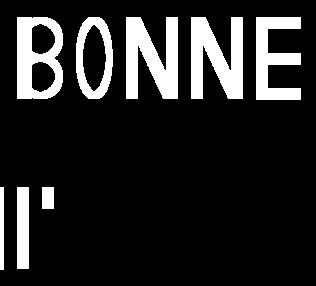
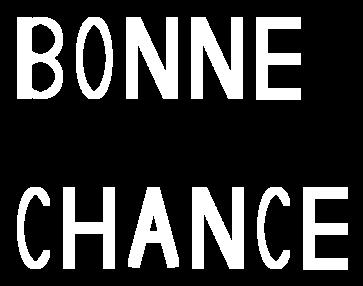
LetterFactory terminé
fin du display de "BONNE CHANCE"

diff --git a/src/main/java/Letter/LetterFactory.java b/src/main/java/Letter/LetterFactory.java
@@ -17,12 +17,52 @@ public final class LetterFactory {
      * @return BaseShape containing the letter A
      */
     public static BaseShape create_A()  {
-        Square square = new Square(5.0);
-        Rectangle rectangle = new Rectangle(5.0, 5.0);
-        rectangle.remove(square);
+
+      /*  double rectWidth = 5.0;
+        double rectHeight = halfMaxHeight;
+        double rotationAngleMilieu = Math.toRadians(-90);
+        double rotationAngle = Math.toRadians(20);
+        double translationMilieuX = rectWidth*4;
+        double translationDroiteX = rectWidth*8;
+
+        Rectangle rectangleGauche = new Rectangle(rectWidth, rectHeight);
+        Rectangle rectangleMilieu = new Rectangle(rectWidth, rectHeight/4);
+        Rectangle rectangleDroite = new Rectangle(rectWidth, rectHeight);
+
+        rectangleMilieu.replaceAll(rectangleMilieu.rotate(rectangleMilieu.getCoords(), rotationAngleMilieu));
+        rectangleMilieu.replaceAll(rectangleMilieu.translate(rectangleMilieu.getCoords(), new Point2d(translationMilieuX, 0.0)));
+        rectangleDroite.replaceAll(rectangleDroite.translate(rectangleDroite.getCoords(), new Point2d(translationDroiteX, 0.0)));
+
+        BaseShape H = new BaseShape();
+        H.add(rectangleGauche);
+        H.add(rectangleMilieu);
+        H.add(rectangleDroite);
+
+        return H; */
+        double rectWidth = 5.0;
+        double rectHeight = halfMaxHeight;
+        double rotationAngleMilieu = Math.toRadians(-90);
+        double rotationAngle = Math.toRadians(15);
+        double translationMilieuX = rectWidth*2;
+        double translationMilieuY = 10;
+        double translationDroiteX = rectWidth*4;
+
+        Rectangle rectangleGauche = new Rectangle(rectWidth, rectHeight);
+        Rectangle rectangleMilieu = new Rectangle(rectWidth, rectHeight/4);
+        Rectangle rectangleDroite = new Rectangle(rectWidth, rectHeight);
+
+        rectangleGauche.replaceAll(rectangleGauche.rotate(rectangleGauche.getCoords(), rotationAngle));
+        rectangleMilieu.replaceAll(rectangleMilieu.rotate(rectangleMilieu.getCoords(), rotationAngleMilieu));
+        rectangleMilieu.replaceAll(rectangleMilieu.translate(rectangleMilieu.getCoords(), new Point2d(translationMilieuX, translationMilieuY)));
+        rectangleDroite.replaceAll(rectangleDroite.rotate(rectangleDroite.getCoords(), -rotationAngle));
+        rectangleDroite.replaceAll(rectangleDroite.translate(rectangleDroite.getCoords(), new Point2d(translationDroiteX, 0.0)));
+
         BaseShape A = new BaseShape();
-        A.add(rectangle);
-        return rectangle;
+        A.add(rectangleGauche);
+        A.add(rectangleMilieu);
+        A.add(rectangleDroite);
+
+        return A;
     }
 
     /** TODO
@@ -58,11 +98,17 @@ public final class LetterFactory {
      * @return BaseShape containing the letter C
      */
     public static BaseShape create_C() {
-        Rectangle rectangle = new Rectangle(5.0, halfMaxHeight);
-        Circle circle = new Circle(5.0);
-        Circle circle2 = new Circle(5.0);
+        double translationX = halfMaxWidth-18;
+        double translationY = 0.0;
+
+        Ellipse ellipse = new Ellipse(halfMaxWidth,halfMaxHeight);
+        Rectangle rectangle = new Rectangle(5.0, halfMaxHeight-25);
+        rectangle.replaceAll(rectangle.translate(rectangle.getCoords(), new Point2d(translationX, translationY)));
+
         BaseShape C = new BaseShape();
-        C.add(rectangle);
+        C.add(ellipse);
+        C.remove(rectangle);
+
         return C;
     }
 
@@ -105,11 +151,24 @@ public final class LetterFactory {
      * @return BaseShape containing the letter H
      */
     public static BaseShape create_H() {
-        Rectangle rectangle = new Rectangle(5.0, 15.0);
-        Circle circle = new Circle(5.0);
-        Circle circle2 = new Circle(5.0);
+        double rectWidth = 5.0;
+        double rectHeight = halfMaxHeight;
+        double rotationAngle = Math.toRadians(-90);
+        double translationMilieuX = rectWidth*3.3;
+        double translationDroiteX = rectWidth*8;
+
+        Rectangle rectangleGauche = new Rectangle(rectWidth, rectHeight);
+        Rectangle rectangleMilieu = new Rectangle(rectWidth, rectHeight/2);
+        Rectangle rectangleDroite = new Rectangle(rectWidth, rectHeight);
+
+        rectangleMilieu.replaceAll(rectangleMilieu.rotate(rectangleMilieu.getCoords(), rotationAngle));
+        rectangleMilieu.replaceAll(rectangleMilieu.translate(rectangleMilieu.getCoords(), new Point2d(translationMilieuX, 0.0)));
+        rectangleDroite.replaceAll(rectangleDroite.translate(rectangleDroite.getCoords(), new Point2d(translationDroiteX, 0.0)));
+
         BaseShape H = new BaseShape();
-        H.add(rectangle);
+        H.add(rectangleGauche);
+        H.add(rectangleMilieu);
+        H.add(rectangleDroite);
 
         return H;
     }
